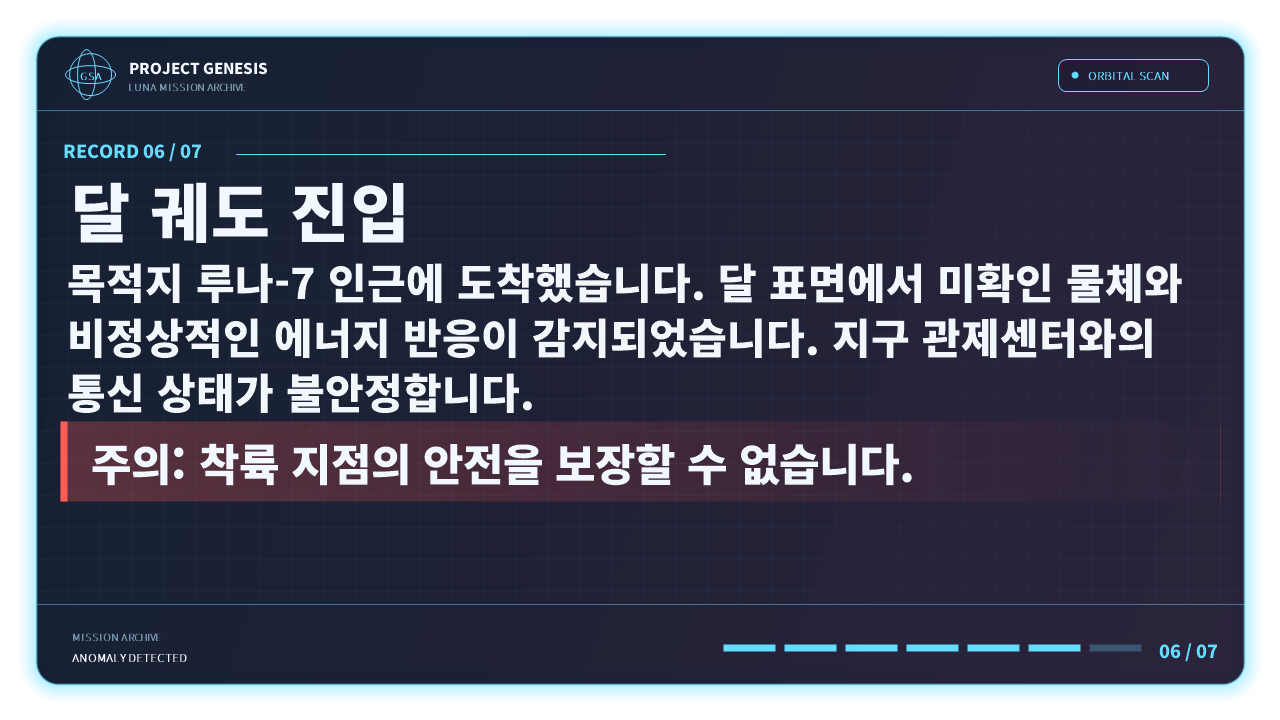
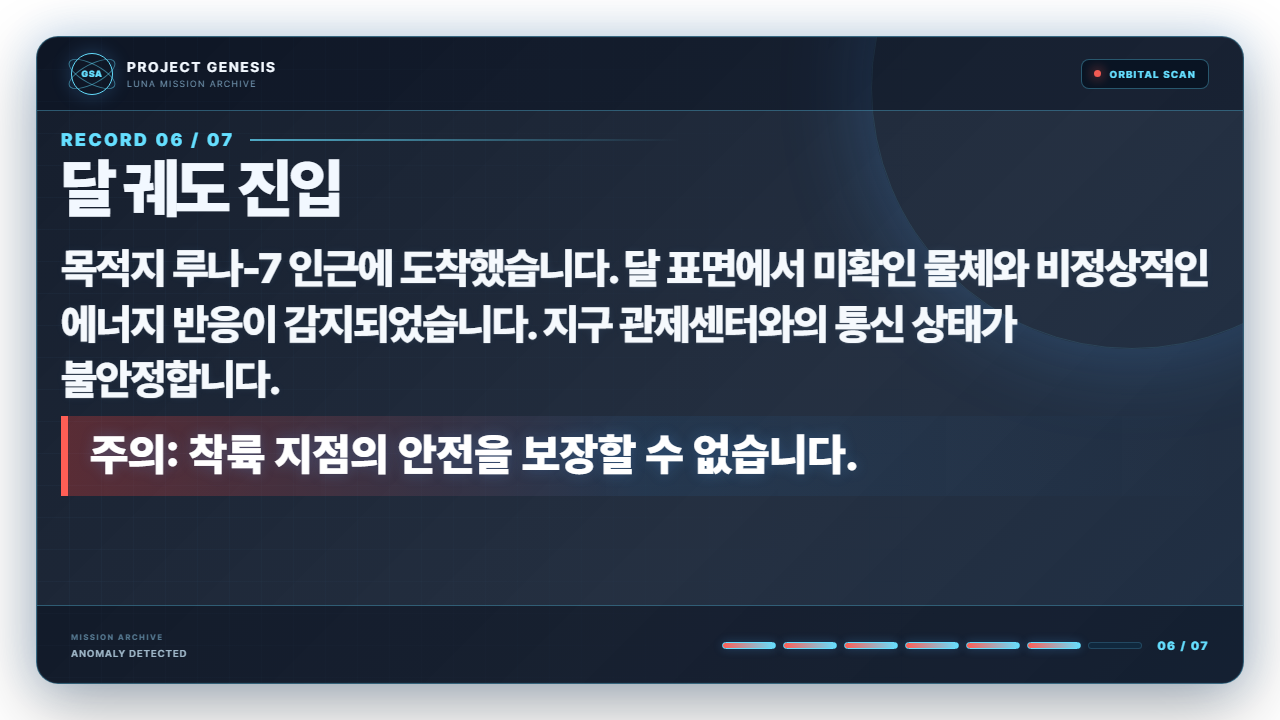
style: distinguish Genesis crisis title

Changed region(s): [[0.0, 0.0306, 1.0, 1.0], [0.0625, 0.8556, 0.1562, 0.9167]]

diff --git a/apps/zep-studio/story-panel-renderer.css b/apps/zep-studio/story-panel-renderer.css
@@ -3,5 +3,6 @@
 *{box-sizing:border-box}html,body{width:1280px;height:720px;margin:0;overflow:hidden;background:transparent;font-family:Pretendard,Arial,sans-serif}body{padding:36px}.story-panel{position:relative;width:1208px;height:648px;overflow:hidden;border:1px solid var(--line);border-radius:22px;background:linear-gradient(135deg,var(--panel),rgba(4,17,37,.87) 62%,var(--panel2));color:var(--text);box-shadow:0 0 0 1px rgba(147,224,255,.06) inset,0 22px 70px rgba(0,0,0,.32),0 0 42px var(--glow);isolation:isolate}.story-panel::before{content:'';position:absolute;inset:0;z-index:-2;background:linear-gradient(rgba(117,208,255,.028) 1px,transparent 1px),linear-gradient(90deg,rgba(117,208,255,.028) 1px,transparent 1px);background-size:32px 32px;mask-image:linear-gradient(90deg,#000,transparent 78%)}.story-panel::after{content:'';position:absolute;width:520px;height:520px;right:-150px;top:-210px;z-index:-1;border:1px solid rgba(105,218,255,.12);border-radius:50%;box-shadow:0 0 90px var(--glow)}.tone-red{--accent:#ff7567;--accent2:#ff334e;--alert:#ffb264;--glow:rgba(255,55,70,.28);--line:rgba(255,100,103,.38);--panel:rgba(24,4,13,.94);--panel2:rgba(40,5,16,.89)}.tone-amber{--accent:#64d8ff;--accent2:#ff9b43;--alert:#ffad52;--glow:rgba(255,143,54,.22)}.tone-mixed{--accent:#65dfff;--accent2:#ff5e55;--alert:#ff7761;--glow:rgba(80,166,255,.26)}.tone-bright{--accent:#d8f8ff;--accent2:#67caff;--alert:#fff;--glow:rgba(156,234,255,.46);--panel:rgba(4,20,40,.88);--panel2:rgba(14,62,89,.84);--line:rgba(202,246,255,.62)}
 .panel-header{height:74px;display:flex;align-items:center;justify-content:space-between;padding:0 34px;border-bottom:1px solid var(--line);background:rgba(3,10,22,.34)}.agency{display:flex;align-items:center;gap:14px}.agency-mark{position:relative;display:grid;place-items:center;width:42px;height:42px;border:1px solid var(--accent);border-radius:50%;color:var(--accent);font-size:9px;font-weight:900;letter-spacing:.08em;box-shadow:0 0 20px var(--glow)}.agency-mark::before,.agency-mark::after{content:'';position:absolute;width:50px;height:18px;border:1px solid var(--accent);border-radius:50%;opacity:.48;transform:rotate(28deg)}.agency-mark::after{transform:rotate(-28deg)}.agency b,.agency small{display:block}.agency b{font-size:14px;letter-spacing:.12em}.agency small{margin-top:3px;color:#6e90aa;font-size:9px;letter-spacing:.16em}.system-status{display:flex;align-items:center;gap:9px;padding:8px 12px;border:1px solid var(--line);border-radius:8px;background:rgba(4,15,29,.72);color:var(--accent);font-size:10px;font-weight:800;letter-spacing:.12em}.system-status i{width:7px;height:7px;border-radius:50%;background:var(--accent2);box-shadow:0 0 12px var(--accent2);animation:pulse 1.6s infinite}@keyframes pulse{50%{opacity:.38}}
 .panel-main{display:block;height:494px;padding:18px 24px 12px}.copy{min-width:0;width:100%}.record-row{display:flex;align-items:center;gap:16px;color:var(--accent);font-size:18px;font-weight:900;letter-spacing:.13em}.record-row::after{content:'';height:2px;max-width:430px;flex:1;background:linear-gradient(90deg,var(--accent),transparent);opacity:.72}.copy h1{margin:6px 0 20px;font-size:64px;font-weight:900;line-height:1.02;letter-spacing:-.055em}.body-copy{width:100%}.body-copy p{max-width:1180px;margin:0;color:#f5f9fd;font-size:var(--body-size,42px);font-weight:850;line-height:1.32;letter-spacing:-.04em;word-break:keep-all;text-shadow:0 1px 0 rgba(255,255,255,.1),0 0 9px rgba(125,202,255,.07)}.highlight{display:flex;align-items:flex-start;min-height:80px;flex-direction:column;justify-content:center;margin-top:8px;padding:8px 22px;border-left:7px solid var(--accent2);background:linear-gradient(90deg,rgba(48,136,205,.27),transparent 96%);color:#fff;font-size:44px;font-weight:900;line-height:1.2;word-break:keep-all;text-shadow:0 0 14px var(--glow)}.highlight span{display:block}.story-panel.tone-red::before{background:repeating-linear-gradient(0deg,rgba(255,55,70,.035) 0,rgba(255,55,70,.035) 2px,transparent 2px,transparent 7px)}.tone-red .highlight{background:linear-gradient(90deg,rgba(255,35,65,.29),transparent)}.tone-mixed .highlight{background:linear-gradient(90deg,rgba(255,65,55,.27),rgba(45,132,210,.1),transparent)}.tone-bright .highlight{font-size:52px;letter-spacing:.09em;background:linear-gradient(90deg,rgba(132,225,255,.3),transparent)}
+.panel-main{display:block;height:494px;padding:18px 24px 12px}.copy{min-width:0;width:100%}.record-row{display:flex;align-items:center;gap:16px;color:var(--accent);font-size:18px;font-weight:900;letter-spacing:.13em}.record-row::after{content:'';height:2px;max-width:430px;flex:1;background:linear-gradient(90deg,var(--accent),transparent);opacity:.72}.copy h1{margin:6px 0 20px;font-size:64px;font-weight:900;line-height:1.02;letter-spacing:-.055em}.panel-1 .copy h1{color:#ffb264;text-shadow:0 0 24px rgba(255,178,100,.22)}.body-copy{width:100%}.body-copy p{max-width:1180px;margin:0;color:#f5f9fd;font-size:var(--body-size,42px);font-weight:850;line-height:1.32;letter-spacing:-.04em;word-break:keep-all;text-shadow:0 1px 0 rgba(255,255,255,.1),0 0 9px rgba(125,202,255,.07)}.highlight{display:flex;align-items:flex-start;min-height:80px;flex-direction:column;justify-content:center;margin-top:8px;padding:8px 22px;border-left:7px solid var(--accent2);background:linear-gradient(90deg,rgba(48,136,205,.27),transparent 96%);color:#fff;font-size:44px;font-weight:900;line-height:1.2;word-break:keep-all;text-shadow:0 0 14px var(--glow)}.highlight span{display:block}.story-panel.tone-red::before{background:repeating-linear-gradient(0deg,rgba(255,55,70,.035) 0,rgba(255,55,70,.035) 2px,transparent 2px,transparent 7px)}.tone-red .highlight{background:linear-gradient(90deg,rgba(255,35,65,.29),transparent)}.tone-mixed .highlight{background:linear-gradient(90deg,rgba(255,65,55,.27),rgba(45,132,210,.1),transparent)}.tone-bright .highlight{font-size:52px;letter-spacing:.09em;background:linear-gradient(90deg,rgba(132,225,255,.3),transparent)}
 .visual{position:relative;display:grid;place-items:center;min-width:0;border:1px solid rgba(108,204,255,.14);border-radius:15px;background:radial-gradient(circle at 50% 45%,rgba(65,162,220,.13),rgba(1,8,19,.3) 62%)}.visual::before,.visual::after{content:'';position:absolute;border:1px solid var(--line);border-radius:50%;opacity:.32}.visual::before{width:260px;height:260px}.visual::after{width:210px;height:210px}.visual svg{position:relative;z-index:1;width:286px;height:286px;filter:drop-shadow(0 0 16px var(--glow))}.visual .stroke{fill:none;stroke:var(--accent);stroke-width:4;stroke-linecap:round;stroke-linejoin:round}.visual .thin{fill:none;stroke:var(--accent);stroke-width:2;opacity:.58}.visual .fill{fill:var(--accent);opacity:.13}.visual .hot{fill:var(--accent2);stroke:var(--alert);stroke-width:2}.visual .soft{fill:var(--accent);opacity:.55}.visual-label{position:absolute;right:13px;bottom:11px;color:#517995;font-size:8px;font-weight:800;letter-spacing:.16em}
 .panel-footer{height:80px;display:grid;grid-template-columns:1fr auto;align-items:center;gap:24px;padding:0 34px;border-top:1px solid var(--line);background:rgba(2,9,20,.38)}.meta small,.meta b{display:block}.meta small{color:#557890;font-size:8px;font-weight:800;letter-spacing:.18em}.meta b{margin-top:5px;color:#9fb7c8;font-size:10px;letter-spacing:.08em}.progress{display:flex;align-items:center;gap:7px}.progress span{width:54px;height:7px;border:1px solid rgba(106,199,245,.2);border-radius:99px;background:rgba(15,47,70,.62)}.progress span.done{border-color:var(--accent);background:linear-gradient(90deg,var(--accent2),var(--accent));box-shadow:0 0 10px var(--glow)}.step-label{margin-left:8px;color:var(--accent);font-size:12px;font-weight:900;letter-spacing:.12em}

diff --git a/apps/zep-studio/story-panel-renderer.js b/apps/zep-studio/story-panel-renderer.js
@@ -17,7 +17,7 @@
   const lines = values => values.map(line => `<span>${line}</span>`).join('');
   const bodySizes = { 1: 41, 2: 40, 3: 42, 4: 42, 5: 42, 6: 42, 7: 39 };
   document.documentElement.style.setProperty('color-scheme', 'dark');
-  document.body.innerHTML = `<main class="story-panel tone-${panel.tone}" style="--body-size:${bodySizes[panel.step] || 42}px">
+  document.body.innerHTML = `<main class="story-panel tone-${panel.tone} panel-${panel.step}" style="--body-size:${bodySizes[panel.step] || 42}px">
     <header class="panel-header"><div class="agency"><span class="agency-mark">GSA</span><span><b>PROJECT GENESIS</b><small>LUNA MISSION ARCHIVE</small></span></div><span class="system-status"><i></i>${panel.header}</span></header>
     <section class="panel-main"><div class="copy"><div class="record-row">${panel.subheader}</div><h1>${panel.title}</h1><div class="body-copy"><p>${panel.body.join(' ')}</p></div><div class="highlight">${lines(panel.highlight)}</div></div></section>
     <footer class="panel-footer"><div class="meta"><small>MISSION ARCHIVE</small><b>${panel.footer}</b></div><div class="progress">${Array.from({ length: 7 }, (_, index) => `<span class="${index < panel.step ? 'done' : ''}"></span>`).join('')}<b class="step-label">${String(panel.step).padStart(2, '0')} / 07</b></div></footer>
